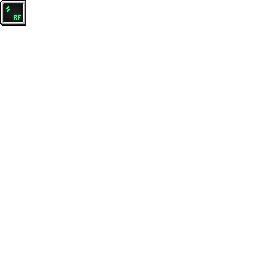
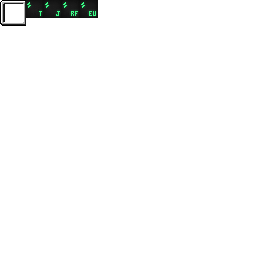
The Energy, Calories tab is updated
Close #12
Try changing the mode switch display for Rotary Condensentrator[Need to close GUI to update]

--中文--
更新能量、热量选项卡，显示标识，关闭 #12
尝试更改回旋式气液转换机的模式切换显示[需要关闭GUI来更新]

Changed region(s): [[0.0, 0.0, 0.4062, 0.0938]]

diff --git a/src/main/java/mekanism/client/gui/GuiRotaryCondensentrator.java b/src/main/java/mekanism/client/gui/GuiRotaryCondensentrator.java
@@ -41,11 +41,11 @@ public class GuiRotaryCondensentrator extends GuiMekanismTile<TileEntityRotaryCo
         addGuiElement(new GuiSecurityTab(this, tileEntity, resource));
         addGuiElement(new GuiRedstoneControl(this, tileEntity, resource));
         addGuiElement(new GuiUpgradeTab(this, tileEntity, resource));
-        addGuiElement(new GuiSlot(SlotType.NORMAL, this, resource, 4, 24).with(SlotOverlay.PLUS));
-        addGuiElement(new GuiSlot(SlotType.NORMAL, this, resource, 4, 55).with(SlotOverlay.MINUS));
-        addGuiElement(new GuiSlot(SlotType.NORMAL, this, resource, 154, 24));
-        addGuiElement(new GuiSlot(SlotType.NORMAL, this, resource, 154, 55));
-        addGuiElement(new GuiSlot(SlotType.NORMAL, this, resource, 154, 4).with(SlotOverlay.POWER));
+        addGuiElement(new GuiSlot(SlotType.OUTPUT, this, resource, 4, 24).with(SlotOverlay.PLUS));
+        addGuiElement(new GuiSlot(SlotType.INPUT, this, resource, 4, 55).with(SlotOverlay.MINUS));
+        addGuiElement(new GuiSlot(SlotType.INPUT, this, resource, 154, 24));
+        addGuiElement(new GuiSlot(SlotType.OUTPUT, this, resource, 154, 55));
+        addGuiElement(new GuiSlot(SlotType.POWER, this, resource, 154, 4).with(SlotOverlay.POWER));
         addGuiElement(new GuiEnergyInfo(() -> {
             String usage = MekanismUtils.getEnergyDisplay(tileEntity.clientEnergyUsed);
             return Arrays.asList(LangUtils.localize("gui.using") + ": " + usage + "/t",
@@ -81,7 +81,11 @@ public class GuiRotaryCondensentrator extends GuiMekanismTile<TileEntityRotaryCo
     public void initGui() {
         super.initGui();
         buttonList.clear();
-        buttonList.add(toggleButton = new GuiButtonDisableableImage(0, guiLeft + 4, guiTop + 4, 18, 18, 176, 18, -18, getGuiLocation()));
+        if (tileEntity.mode == 0){
+            buttonList.add(toggleButton = new GuiButtonDisableableImage(0, guiLeft + 4, guiTop + 4, 18, 18, 176, 18, -18, getGuiLocation()));
+        }else if (tileEntity.mode == 1) {
+            buttonList.add(toggleButton = new GuiButtonDisableableImage(1, guiLeft + 4, guiTop + 4, 18, 18, 194, 18, -18, getGuiLocation()));
+        }
     }
 
     @Override

diff --git a/src/main/java/mekanism/client/gui/element/GuiHeatInfo.java b/src/main/java/mekanism/client/gui/element/GuiHeatInfo.java
@@ -36,6 +36,8 @@ public class GuiHeatInfo extends GuiElement {
     public void renderBackground(int xAxis, int yAxis, int guiWidth, int guiHeight) {
         mc.renderEngine.bindTexture(RESOURCE);
         guiObj.drawTexturedRect(guiWidth - 26, guiHeight + 112, 0, 0, 26, 26);
+        int outputOrdinal = (MekanismConfig.current().general.tempUnit.val().ordinal() + 1) % TempType.values().length;
+        guiObj.drawTexturedRect(guiWidth - 21, guiHeight + 116, 26 + 18 * outputOrdinal,inBounds(xAxis, yAxis) ? 0 : 0, 18, 18);
         mc.renderEngine.bindTexture(defaultLocation);
     }
 
@@ -56,7 +58,6 @@ public class GuiHeatInfo extends GuiElement {
     public void mouseClicked(int xAxis, int yAxis, int button) {
         if (button == 0 && inBounds(xAxis, yAxis)) {
             MekanismConfig.current().general.tempUnit.set(TempType.values()[(MekanismConfig.current().general.tempUnit.val().ordinal() + 1) % TempType.values().length]);
-
         }
     }
 }

diff --git a/src/main/java/mekanism/client/gui/element/GuiEnergyInfo.java b/src/main/java/mekanism/client/gui/element/GuiEnergyInfo.java
@@ -36,7 +36,8 @@ public class GuiEnergyInfo extends GuiElement {
     public void renderBackground(int xAxis, int yAxis, int guiWidth, int guiHeight) {
         mc.renderEngine.bindTexture(RESOURCE);
         guiObj.drawTexturedRect(guiWidth - 26, guiHeight + 138, 0, 0, 26, 26);
-
+        int outputOrdinal = (MekanismConfig.current().general.energyUnit.val().ordinal() + 1) % EnergyType.values().length;
+        guiObj.drawTexturedRect(guiWidth - 21, guiHeight + 142, 26 + 18 * outputOrdinal,inBounds(xAxis, yAxis) ? 0 : 0, 18, 18);
         mc.renderEngine.bindTexture(defaultLocation);
     }
 
